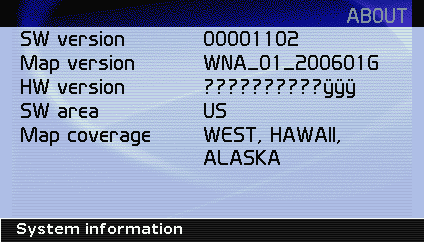
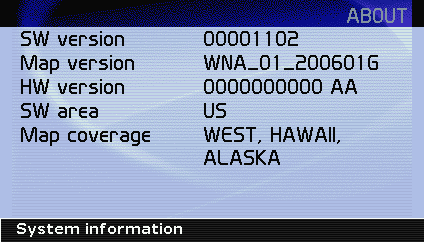
cup28: seed the About screen's HW version
The About screen's HW version is the eight bytes at offset 0x7ff0 of the
backup EEPROM, five packed-BCD digits and a three-byte suffix, not a
register in the 0x07800000 window. An erased chip renders as ten ? and
three 0xFF bytes, which is what the CUP28 screenshot used to show.

Seed those bytes with the placeholder 0000000000 AA when they are erased,
and leave an identity a unit already holds alone, so a unit keeps whatever
its eeprom.bin carries. Fold the nvram setup into cup28_bkeeprom_init()
while adding the seed; the empty-path check is gone because the helper
already falls back to plain RAM.

Refresh the screenshot and replace the README paragraph that called the
field unexplained.

Refs #8.

Generated by Mistral Vibe.

Changed region(s): [[0.4599, 0.3182, 0.8585, 0.405]]

diff --git a/machine/cup28.c b/machine/cup28.c
@@ -11,6 +11,7 @@
 #define CUP28_FLASH_LOG_MAX 256
 #define CUP28_FLASH_SECTOR (256 * KiB)
 #define CUP28_FIRMWARE_OFFSET 0x80000
+#define CUP28_HW_VERSION_OFFSET 0x7ff0
 
 uint64_t cup28_register_read(const uint8_t *regs, hwaddr addr,
                                     unsigned size)
@@ -182,6 +183,28 @@ struct intc_source *cup28_intc_source(SuperHCPU *cpu, unsigned intevt)
     return NULL;
 }
 
+static void cup28_bkeeprom_init(Cup28MachineState *s)
+{
+    static const uint8_t erased[] = {
+        0xff, 0xff, 0xff, 0xff, 0xff, 0xff, 0xff, 0xff,
+    };
+    /* STUB: a factory unit carries its identity in the last eight bytes of
+     * eep.dll's EEPROM window, five packed-BCD digits and a three-byte
+     * suffix. An erased chip has none, so seed a placeholder. */
+    static const uint8_t placeholder[] = {
+        0x00, 0x00, 0x00, 0x00, 0x00, ' ', 'A', 'A',
+    };
+    uint8_t *version;
+
+    melco_nvram_init(&s->p28_bkeeprom, OBJECT(s), "cup28-backup-eeprom",
+                     s->eeprom, MiB, 0xff);
+    version = (uint8_t *)memory_region_get_ram_ptr(&s->p28_bkeeprom) +
+              CUP28_HW_VERSION_OFFSET;
+    if (memcmp(version, erased, sizeof(erased)) == 0) {
+        memcpy(version, placeholder, sizeof(placeholder));
+    }
+}
+
 static void cup28_storage_init(Cup28MachineState *s, MemoryRegion *mem,
                                SuperHCPU *cpu)
 {
@@ -234,8 +257,7 @@ static void cup28_storage_init(Cup28MachineState *s, MemoryRegion *mem,
                                         &s->p28_eeprom_regs, 3);
     cup28_bksram_init(s);
     memory_region_add_subregion_overlap(mem, 0x12000000, &s->p28_bksram, 1);
-    melco_nvram_init(&s->p28_bkeeprom, OBJECT(s), "cup28-backup-eeprom",
-                     (s->eeprom && *s->eeprom) ? s->eeprom : NULL, MiB, 0xff);
+    cup28_bkeeprom_init(s);
     memory_region_add_subregion_overlap(mem, 0x18000000, &s->p28_bkeeprom, 1);
 
     /* STUB: the FLR driver sees a blank 256 KiB read/write window. */

diff --git a/README.md b/README.md
@@ -32,15 +32,10 @@ the last entry of the system settings list (opened with the right arrow).
 | system settings | ![CU-P2006 system settings](screenshots/cup2006-settings.png) | ![CUP28 system settings](screenshots/cup28-settings.png) |
 | about | ![CU-P2006 about screen](screenshots/cup2006-about.png) | ![CUP28 about screen](screenshots/cup28-about.png) |
 
-CUP28's HW version field reads back as unknown characters (ten `?` and three
-stray `0xFF` bytes). The `0x07800000` window is not an EEPROM transfer engine:
-its `+0x010` block is the A/D sample service, and tracing every access over a
-whole boot shows nothing reads the window's registers for identity. The unit's
-EEPROM store is the backup window at physical `0x18000000`, which this machine
-keeps in the unit's `eeprom.bin`: the guest formats it itself and holds its
-power-on counters there. The About field is not served from it: a valid part
-number written into every slot of that image leaves the field unchanged, so
-where the field comes from is still open.
+CUP28's About screen shows the eight bytes at offset `0x7ff0` of the unit's
+backup EEPROM as the HW version: five packed-BCD digits and a three-character
+suffix. The machine fills an erased identity with the placeholder
+`0000000000 AA` and keeps whatever a unit already holds.
 
 ## Requirements and building
 
@@ -99,8 +94,9 @@ session).
 
 ### Unit state
 
-The launcher stores the unit's flash and battery-backed SRAM in `build/cup28`
-(`flash.bin`, `sram.bin`) plus the extracted firmware image `nk-<sha256>.nb0`.
+The launcher stores the unit's flash, battery-backed SRAM, and backup EEPROM in
+`build/cup28` (`flash.bin`, `sram.bin`, `eeprom.bin`) alongside the extracted
+firmware image `nk-<sha256>.nb0`.
 Set `CUP28_UNIT` to a different directory for a separate unit; `rm -rf` that
 directory for a new one.
 

diff --git a/docs/board-cup28.md b/docs/board-cup28.md
@@ -28,6 +28,14 @@ role of the `CUP2001E` modules is not modelled.
 | Selftest / RTC | `0xff93c000`, `0xffc80000` (alias `0x1fc80000`) | Board-revision ADC sample; real-time clock |
 | Nonvolatile state | XIP flash at `0x0` (alias `0x02000000`), battery SRAM at `0x12000000`, backup EEPROM at `0x18000000` | File-backed flash, battery SRAM and backup EEPROM. The guest formats the EEPROM itself (`EEPROM  ` header at offset 0) and keeps its power-on counters and clock at `+0x70` |
 
+The About screen's HW version is the eight bytes at offset `0x7ff0` of the
+backup EEPROM: five packed-BCD bytes shown as ten digits, then a three-byte
+suffix. An erased tail shows as ten `?` and three `0xff` bytes, so the machine
+seeds those eight bytes with the placeholder `0000000000 AA` when they are all
+`0xff`, and leaves an identity a unit already holds alone. The placeholder
+stands in for the factory part number, which this machine does not have. The
+unit keeps the identity in `eeprom.bin` alongside its guest-managed state.
+
 The vehicle peer sends market `06` in FBlock `F5/2B2` and US English
 `11` in `F5/2C1`. The firmware's MOST handler reads those settings and
 persists them. On the tested disc, the stock guidance files are used on
